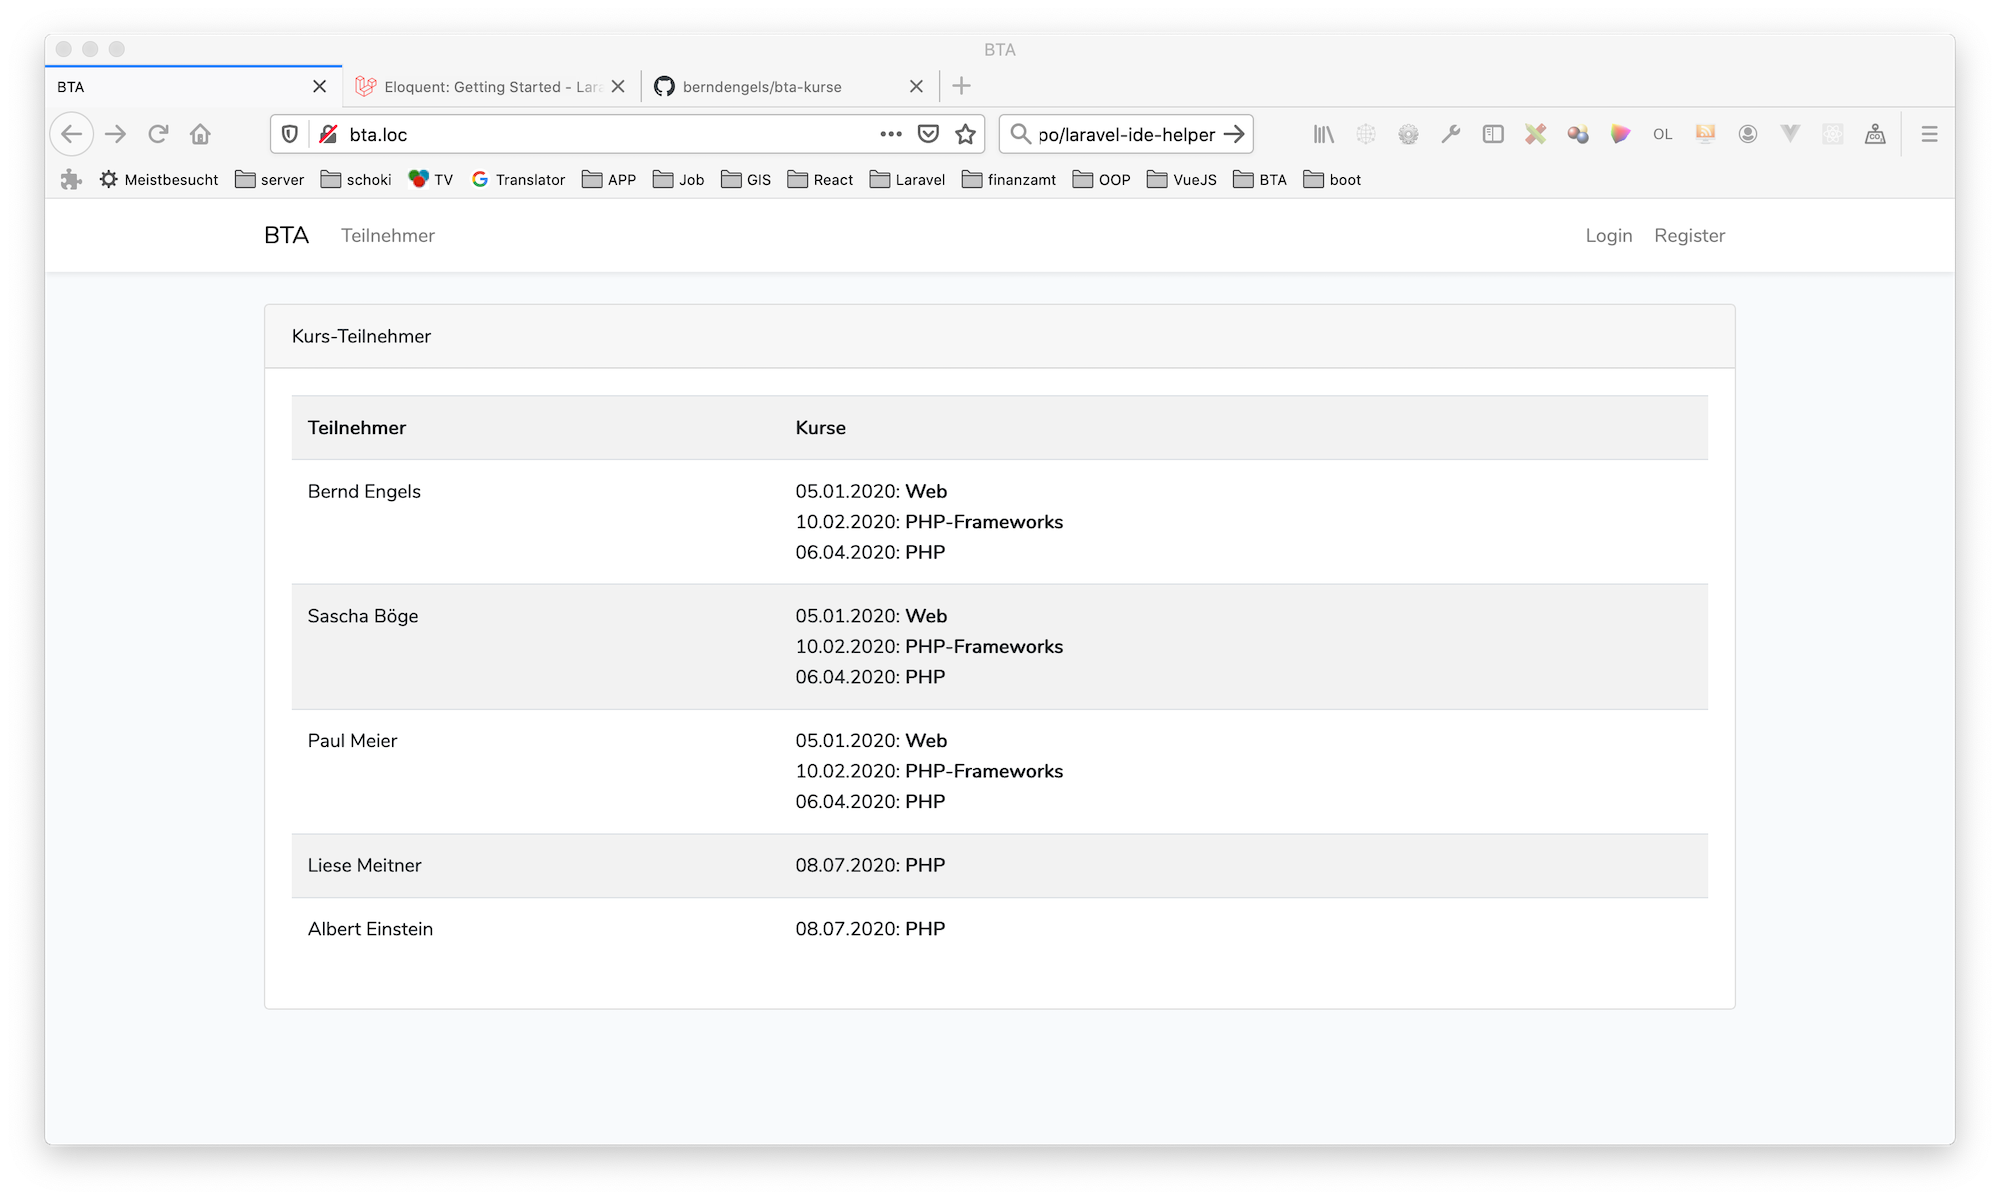
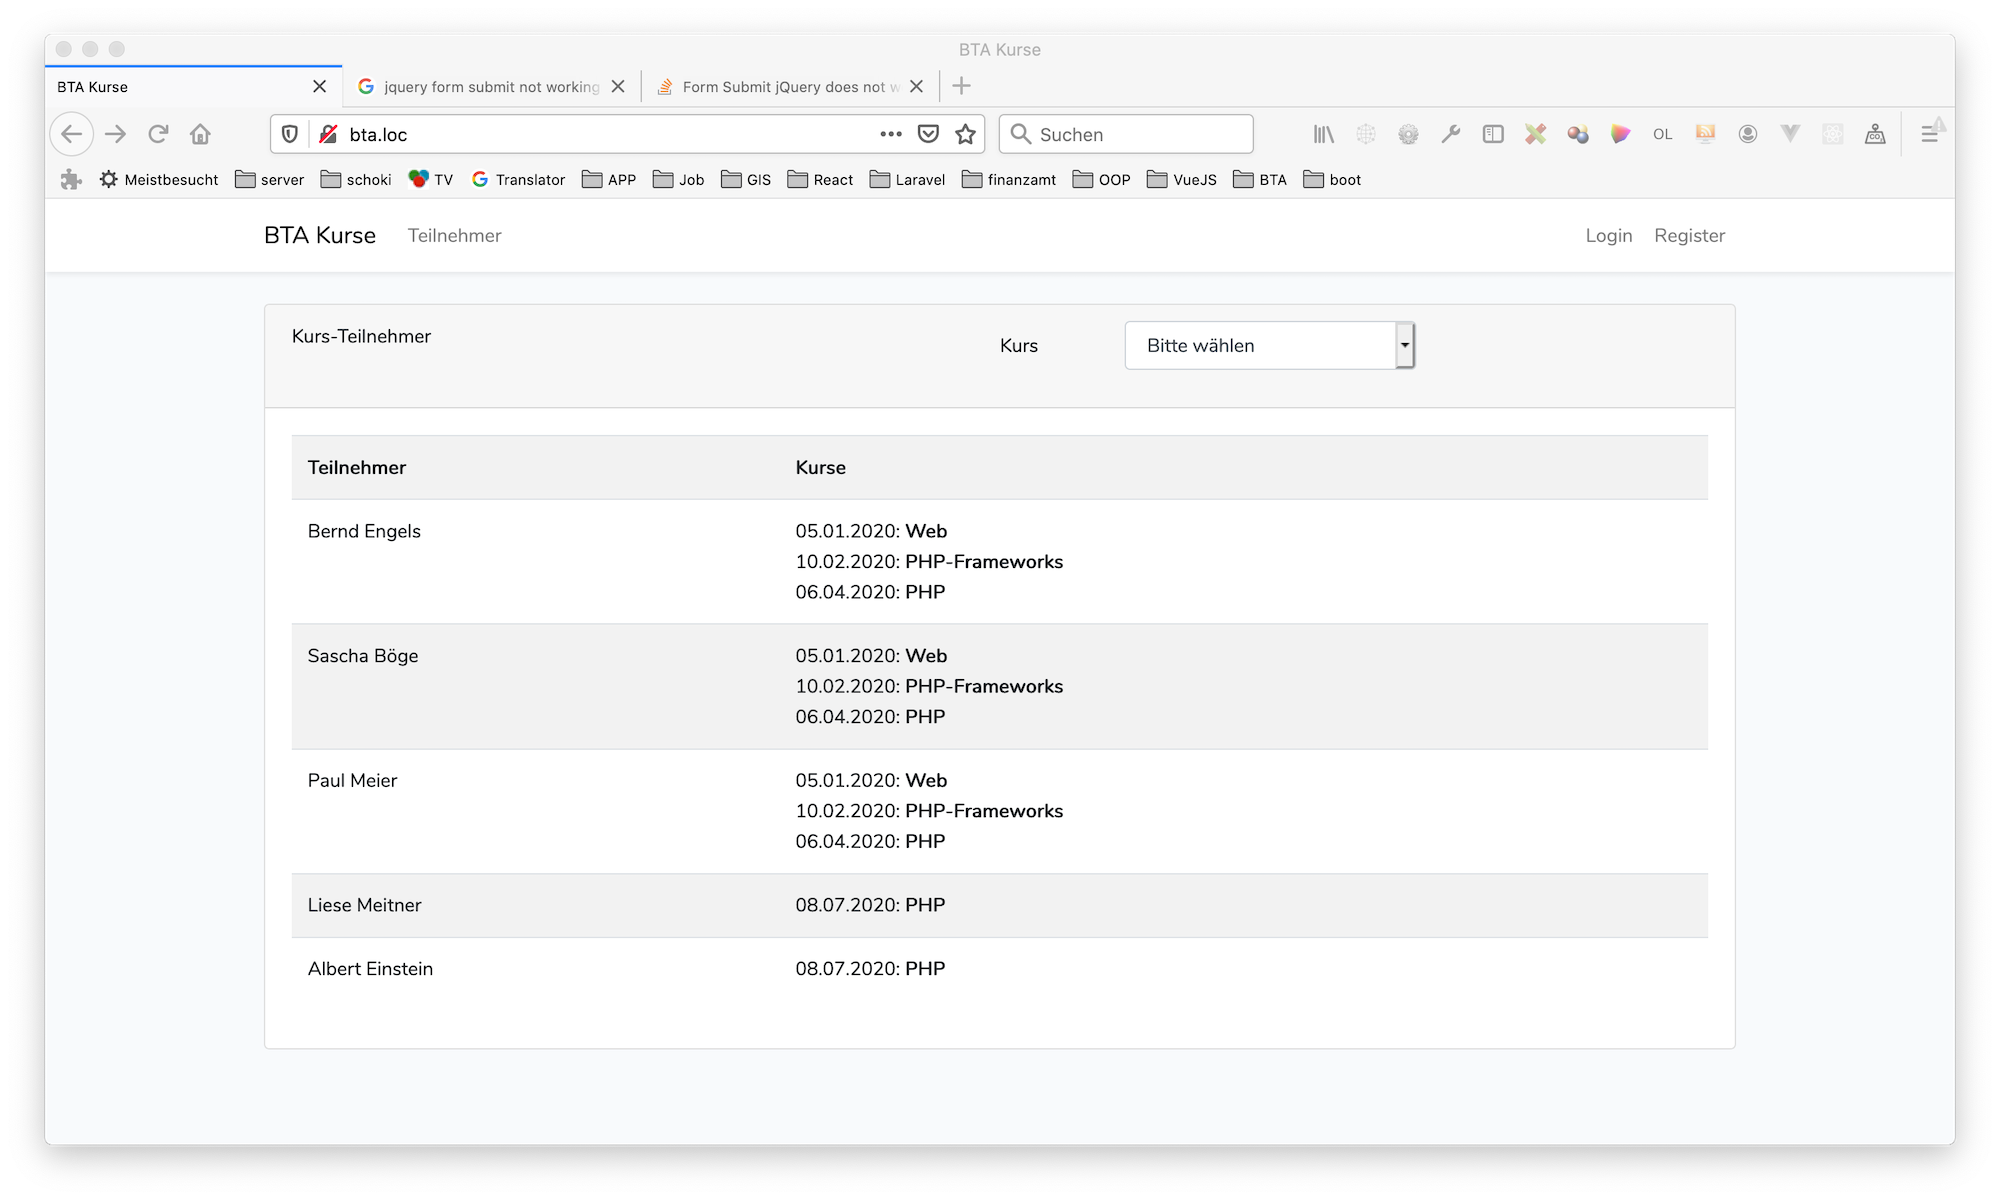
stuff

diff --git a/resources/views/participant.blade.php b/resources/views/participant.blade.php
@@ -7,7 +7,7 @@
     <div class="float-right w-50 mr-0 pr-0">
         <form id="frm" method="get">
             @csrf
-            <x-inp.select name="courseID" label="Kurs" :options="$courses" />
+            <x-inp.select name="courseID" label="Kurs" :options="$courses" value="{{ $courseID ?? null }}" />
         </form>
     </div>
 @endsection
@@ -27,7 +27,7 @@
                         @foreach($item->courses as $course)
                             {{ $course->start->format('d.m.Y') }}:
                             <span
-                                @if((int) $courseID === $course->course_id)
+                                @if( isset($courseID) && (int) $courseID === $course->course_id)
                                     class="text-primary"
                                 @endif
                             ><b>{{ $course->course }}</b></span><br>
